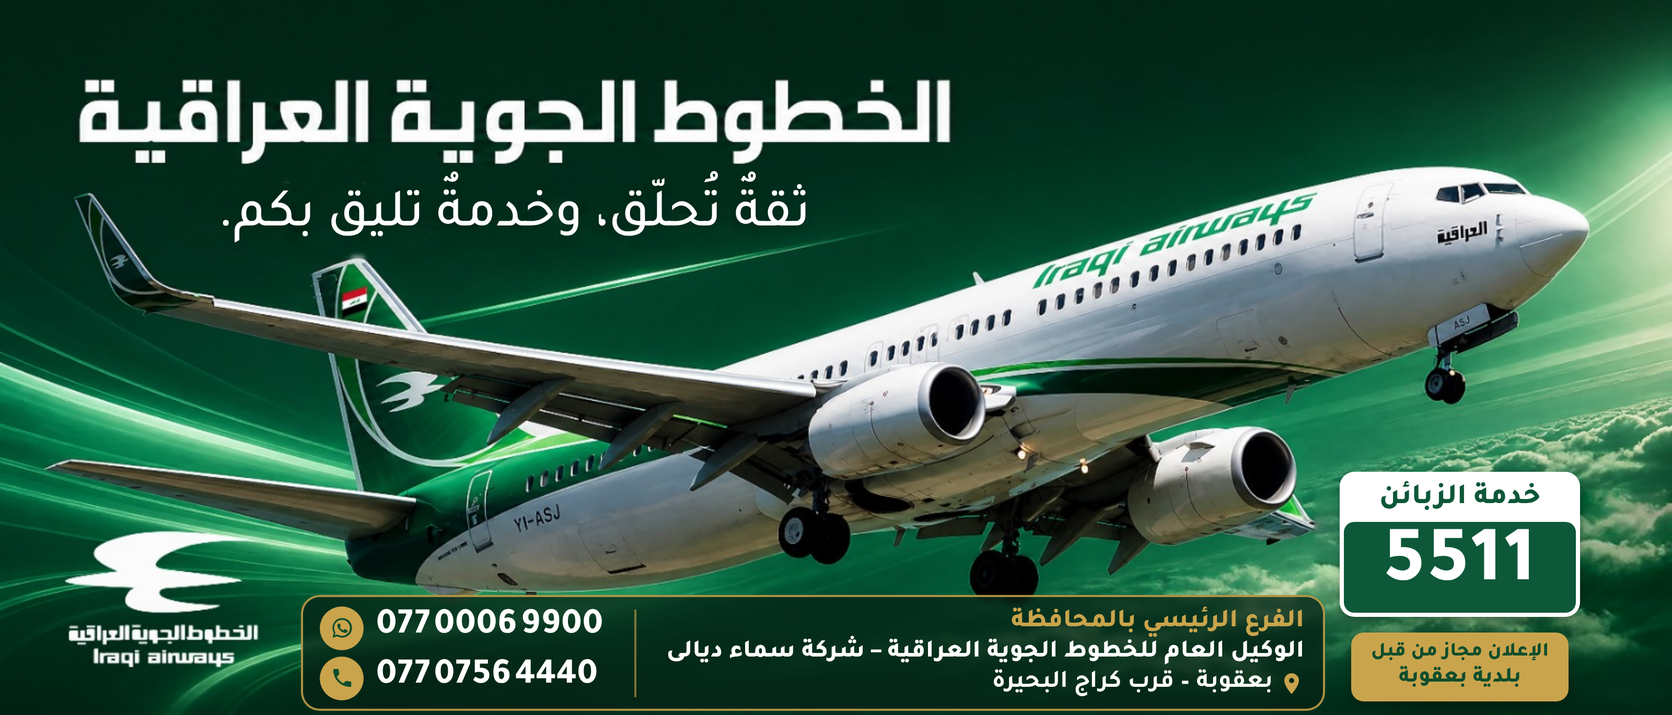
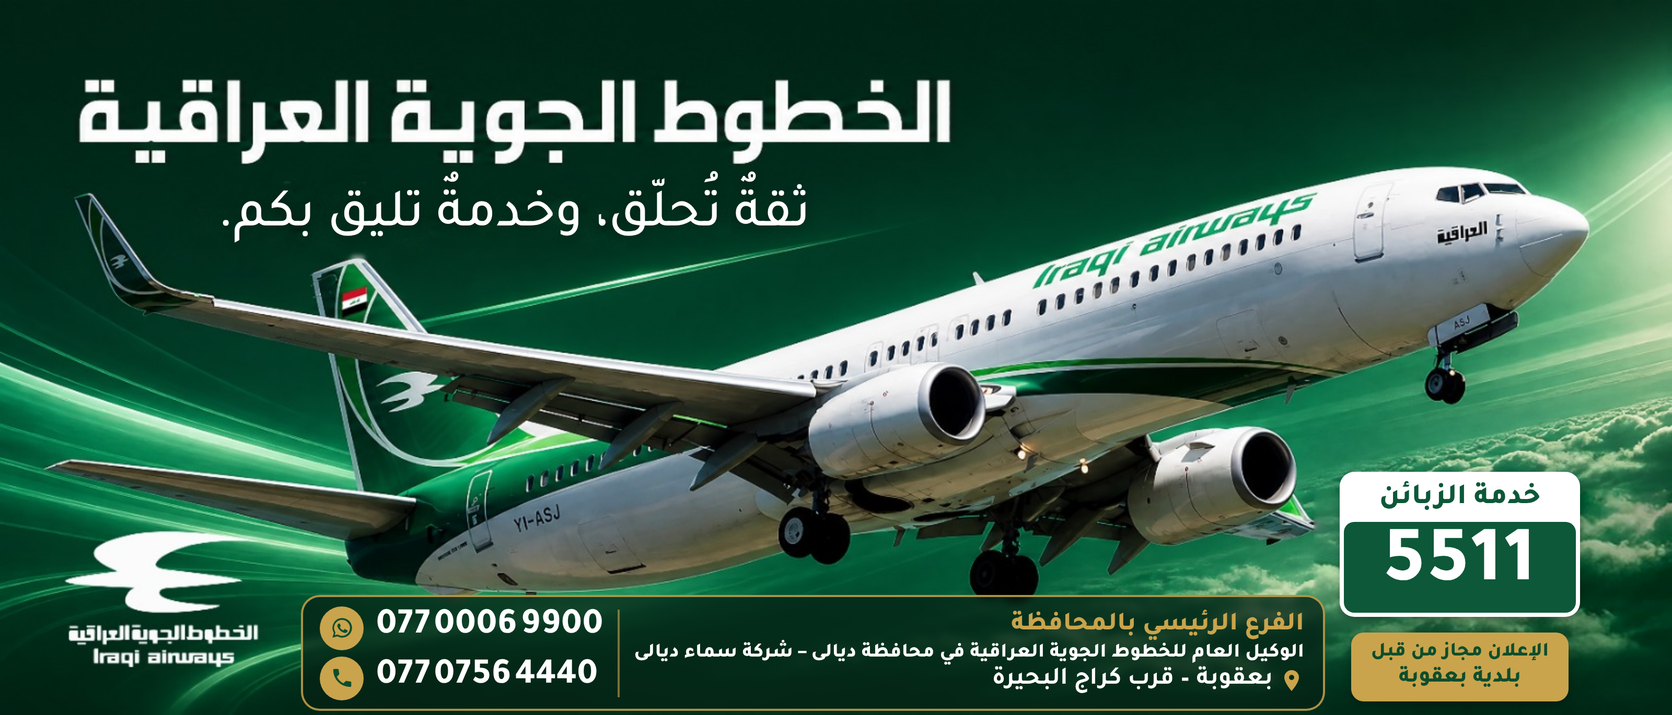
لوحة العراقية الرسمية (ثقة تحلق): سطر الوكيل في محافظة ديالى، ونسخة بالوكيل في السطر الأول
Claude-Session: https://claude.ai/code/session_01EprWPUJDuKvYHn821imCPv

Changed region(s): [[0.375, 0.8584, 0.7812, 0.981]]

diff --git a/09-التصاميم/لوحة الخطوط الجوية العراقية - تعديل الرسمية/إعلان - ثقة تحلق - الوكيل في السطر الأول.html b/09-التصاميم/لوحة الخطوط الجوية العراقية - تعديل الرسمية/إعلان - ثقة تحلق - الوكيل في السطر الأول.html
@@ -1,0 +1,60 @@
+<!doctype html><html lang="ar" dir="rtl"><head><meta charset="utf-8"><title>لوحة العراقية الرسمية - معدلة</title>
+<style>
+  @font-face{font-family:Tajawal;font-weight:700;src:url("../../07-أدوات/خطوط/tajawal-arabic-800-normal.woff2");unicode-range:U+0600-06FF,U+0750-077F,U+FB50-FDFF,U+FE70-FEFF,U+200C-200E}
+  @font-face{font-family:Tajawal;font-weight:700;src:url("../../07-أدوات/خطوط/tajawal-latin-800-normal.woff2");unicode-range:U+0000-00FF,U+2000-206F}
+  @font-face{font-family:TajawalT;font-weight:400;src:url("../../07-أدوات/خطوط/tajawal-arabic-500-normal.woff2");unicode-range:U+0600-06FF,U+0750-077F,U+FB50-FDFF,U+FE70-FEFF,U+200C-200E}
+  @font-face{font-family:TajawalT;font-weight:400;src:url("../../07-أدوات/خطوط/tajawal-latin-500-normal.woff2");unicode-range:U+0000-00FF,U+2000-206F}
+  @font-face{font-family:TajawalT;font-weight:500;src:url("../../07-أدوات/خطوط/tajawal-arabic-500-normal.woff2");unicode-range:U+0600-06FF,U+0750-077F,U+FB50-FDFF,U+FE70-FEFF,U+200C-200E}
+  @font-face{font-family:TajawalT;font-weight:500;src:url("../../07-أدوات/خطوط/tajawal-latin-500-normal.woff2");unicode-range:U+0000-00FF,U+2000-206F}
+  @font-face{font-family:TajawalT;font-weight:600;src:url("../../07-أدوات/خطوط/tajawal-arabic-700-normal.woff2");unicode-range:U+0600-06FF,U+0750-077F,U+FB50-FDFF,U+FE70-FEFF,U+200C-200E}
+  @font-face{font-family:TajawalT;font-weight:600;src:url("../../07-أدوات/خطوط/tajawal-latin-700-normal.woff2");unicode-range:U+0000-00FF,U+2000-206F}
+  @font-face{font-family:TajawalT;font-weight:700;src:url("../../07-أدوات/خطوط/tajawal-arabic-800-normal.woff2");unicode-range:U+0600-06FF,U+0750-077F,U+FB50-FDFF,U+FE70-FEFF,U+200C-200E}
+  @font-face{font-family:TajawalT;font-weight:700;src:url("../../07-أدوات/خطوط/tajawal-latin-800-normal.woff2");unicode-range:U+0000-00FF,U+2000-206F}
+/* The airline's official billboard kept as it is; only an address + numbers panel added in the free strip
+   between the Iraqi Airways logo and the 5511 badge, under the landing gear (asked by Ihsan). */
+*{margin:0;padding:0;box-sizing:border-box}
+html,body{width:1600px;height:685px;overflow:hidden}
+.ad{position:relative;width:1600px;height:685px;background:url("أساس - ثقة تحلق.png") 0 0/1600px 685px no-repeat}
+.pn{position:absolute;left:288px;width:980px;top:570px;height:111px;border-radius:18px;background:rgba(6,34,20,.74);
+    border:2px solid rgba(201,164,76,.85);display:flex;align-items:center;justify-content:space-between;padding:0 18px 0 16px;direction:rtl;color:#fff;
+    backdrop-filter:blur(4px)}
+.addr{display:flex;align-items:center;gap:12px}
+.addr svg{width:40px;height:40px;flex:none}
+.addr .l{width:max-content;white-space:nowrap;font-family:TajawalT;font-weight:700;line-height:1.2}
+.addr .l1{font-size:25px;color:#C9A44C}
+.addr .l2{font-size:24px}
+.addr .l3{font-size:24px;font-weight:600;display:flex;align-items:center;gap:6px}
+.addr .l3 svg.pin{width:24px;height:24px;flex:none}
+.vs{width:2px;height:84px;margin:0 8px;background:rgba(201,164,76,.6)}
+.nums{display:flex;flex-direction:column;gap:6px}
+.n{display:flex;align-items:center;gap:12px;direction:ltr;font-family:TajawalT;font-weight:700;font-size:35px;line-height:1.05;letter-spacing:.5px;word-spacing:-6px;white-space:nowrap}
+.n .ic{width:42px;height:42px;border-radius:50%;background:#C9A44C;display:flex;align-items:center;justify-content:center;flex:none}
+.n .ic svg{width:23px;height:23px}
+.cs{position:absolute;left:1282px;top:452px;width:230px;height:139px;background:#fff;border-radius:14px;padding:4px;display:flex;flex-direction:column;box-shadow:0 3px 8px rgba(0,0,0,.28)}
+.cs .k{height:44px;display:flex;align-items:center;justify-content:center;font-family:TajawalT;font-weight:700;font-size:28px;color:#0d5839}
+.cs .v{flex:1;background:#0d5839;border-radius:10px;display:flex;align-items:center;justify-content:center;font-family:Tajawal;font-weight:700;font-size:76px;line-height:1;color:#fff;letter-spacing:1px}
+.tg{position:absolute;left:92px;width:800px;top:178px;text-align:center;font-family:TajawalT;font-weight:500;font-size:52px;line-height:1.2;color:#fff;text-shadow:0 2px 10px rgba(0,0,0,.25)}
+.lic{position:absolute;left:1293px;top:606px;width:208px;height:66px;background:#C9A44C;border-radius:12px;display:flex;flex-direction:column;align-items:center;justify-content:center;
+     font-family:TajawalT;font-weight:700;color:#0E4D2C;line-height:1.18;text-align:center;box-shadow:0 3px 8px rgba(0,0,0,.28)}
+.lic .l1{font-size:19px}.lic .l2{font-size:21px;white-space:nowrap}
+</style></head><body><div class="ad">
+<div class="cs"><div class="k">خدمة الزبائن</div><div class="v">5511</div></div>
+<div class="lic"><div class="l1">الإعلان مجاز من قبل</div><div class="l2">بلدية بعقوبة</div></div>
+<div class="tg">ثقةٌ تُحلّق، وخدمةٌ تليق بكم.</div>
+<div class="pn">
+  <div class="addr">
+    <div><div class="l l1">الوكيل العام للخطوط الجوية العراقية في محافظة ديالى</div><div class="l l2">شركة سماء ديالى</div><div class="l l3"><svg class="pin" viewBox="0 0 24 24" fill="#C9A44C"><path d="M12 2a7 7 0 0 0-7 7c0 5.2 7 13 7 13s7-7.8 7-13a7 7 0 0 0-7-7zm0 9.5A2.5 2.5 0 1 1 12 6.5a2.5 2.5 0 0 1 0 5z"/></svg><span>بعقوبة – قرب كراج البحيرة</span></div></div></div>
+  <div class="vs"></div>
+  <div class="nums">
+    <div class="n"><span class="ic"><svg viewBox="0 0 32 32" fill="#0E4D2C"><path d="M16 3a13 13 0 0 0-11.2 19.6L3 29l6.6-1.7A13 13 0 1 0 16 3zm0 23.6c-2 0-4-.5-5.7-1.6l-.4-.2-3.9 1 1-3.8-.3-.4A10.6 10.6 0 1 1 16 26.6zm5.8-7.9c-.3-.2-1.9-.9-2.2-1-.3-.1-.5-.2-.7.2l-1 1.2c-.2.2-.4.2-.7.1a8.7 8.7 0 0 1-4.3-3.8c-.3-.6.3-.5 1-1.7.1-.2 0-.4 0-.6l-1-2.4c-.3-.6-.5-.5-.7-.5h-.6c-.2 0-.6.1-.9.4-.3.3-1.2 1.1-1.2 2.8s1.2 3.2 1.4 3.5c.2.2 2.4 3.6 5.8 5 2.1.9 3 1 4 .8.7-.1 1.9-.8 2.2-1.6.3-.8.3-1.4.2-1.6-.1-.1-.3-.2-.6-.3z"/></svg></span>077 0006 9900</div>
+    <div class="n"><span class="ic"><svg viewBox="0 0 24 24" fill="#0E4D2C"><path d="M6.6 10.8a15.1 15.1 0 0 0 6.6 6.6l2.2-2.2a1 1 0 0 1 1-.25 11.4 11.4 0 0 0 3.6.57 1 1 0 0 1 1 1V20a1 1 0 0 1-1 1A17 17 0 0 1 3 4a1 1 0 0 1 1-1h3.5a1 1 0 0 1 1 1c0 1.25.2 2.45.57 3.57a1 1 0 0 1-.25 1z"/></svg></span>077 0756 4440</div>
+  </div>
+</div>
+</div>
+<script>document.fonts.ready.then(()=>{
+  // shrink any address line that would push the panel past its width (keeps one line each)
+  const pn=document.querySelector('.pn'),nums=document.querySelector('.nums'),vs=document.querySelector('.vs');
+  const max=pn.clientWidth-36-nums.getBoundingClientRect().width-vs.getBoundingClientRect().width-16-6;
+  document.querySelectorAll('.addr .l').forEach(l=>{let f=parseFloat(getComputedStyle(l).fontSize);
+    while(l.scrollWidth>max&&f>14){f-=0.25;l.style.fontSize=f+'px';} l.dataset.fs=f;});
+  document.body.dataset.ready='1'})</script></body></html>

diff --git a/09-التصاميم/لوحة الخطوط الجوية العراقية - تعديل الرسمية/إعلان - ثقة تحلق.html b/09-التصاميم/لوحة الخطوط الجوية العراقية - تعديل الرسمية/إعلان - ثقة تحلق.html
@@ -20,7 +20,7 @@ html,body{width:1600px;height:685px;overflow:hidden}
     backdrop-filter:blur(4px)}
 .addr{display:flex;align-items:center;gap:12px}
 .addr svg{width:40px;height:40px;flex:none}
-.addr .l{white-space:nowrap;font-family:TajawalT;font-weight:700;line-height:1.2}
+.addr .l{width:max-content;white-space:nowrap;font-family:TajawalT;font-weight:700;line-height:1.2}
 .addr .l1{font-size:25px;color:#C9A44C}
 .addr .l2{font-size:24px}
 .addr .l3{font-size:24px;font-weight:600;display:flex;align-items:center;gap:6px}
@@ -43,7 +43,7 @@ html,body{width:1600px;height:685px;overflow:hidden}
 <div class="tg">ثقةٌ تُحلّق، وخدمةٌ تليق بكم.</div>
 <div class="pn">
   <div class="addr">
-    <div><div class="l l1">الفرع الرئيسي بالمحافظة</div><div class="l l2">الوكيل العام للخطوط الجوية العراقية – شركة سماء ديالى</div><div class="l l3"><svg class="pin" viewBox="0 0 24 24" fill="#C9A44C"><path d="M12 2a7 7 0 0 0-7 7c0 5.2 7 13 7 13s7-7.8 7-13a7 7 0 0 0-7-7zm0 9.5A2.5 2.5 0 1 1 12 6.5a2.5 2.5 0 0 1 0 5z"/></svg><span>بعقوبة – قرب كراج البحيرة</span></div></div></div>
+    <div><div class="l l1">الفرع الرئيسي بالمحافظة</div><div class="l l2">الوكيل العام للخطوط الجوية العراقية في محافظة ديالى – شركة سماء ديالى</div><div class="l l3"><svg class="pin" viewBox="0 0 24 24" fill="#C9A44C"><path d="M12 2a7 7 0 0 0-7 7c0 5.2 7 13 7 13s7-7.8 7-13a7 7 0 0 0-7-7zm0 9.5A2.5 2.5 0 1 1 12 6.5a2.5 2.5 0 0 1 0 5z"/></svg><span>بعقوبة – قرب كراج البحيرة</span></div></div></div>
   <div class="vs"></div>
   <div class="nums">
     <div class="n"><span class="ic"><svg viewBox="0 0 32 32" fill="#0E4D2C"><path d="M16 3a13 13 0 0 0-11.2 19.6L3 29l6.6-1.7A13 13 0 1 0 16 3zm0 23.6c-2 0-4-.5-5.7-1.6l-.4-.2-3.9 1 1-3.8-.3-.4A10.6 10.6 0 1 1 16 26.6zm5.8-7.9c-.3-.2-1.9-.9-2.2-1-.3-.1-.5-.2-.7.2l-1 1.2c-.2.2-.4.2-.7.1a8.7 8.7 0 0 1-4.3-3.8c-.3-.6.3-.5 1-1.7.1-.2 0-.4 0-.6l-1-2.4c-.3-.6-.5-.5-.7-.5h-.6c-.2 0-.6.1-.9.4-.3.3-1.2 1.1-1.2 2.8s1.2 3.2 1.4 3.5c.2.2 2.4 3.6 5.8 5 2.1.9 3 1 4 .8.7-.1 1.9-.8 2.2-1.6.3-.8.3-1.4.2-1.6-.1-.1-.3-.2-.6-.3z"/></svg></span>077 0006 9900</div>
@@ -51,4 +51,10 @@ html,body{width:1600px;height:685px;overflow:hidden}
   </div>
 </div>
 </div>
-<script>document.fonts.ready.then(()=>{document.body.dataset.ready='1'})</script></body></html>
+<script>document.fonts.ready.then(()=>{
+  // shrink any address line that would push the panel past its width (keeps one line each)
+  const pn=document.querySelector('.pn'),nums=document.querySelector('.nums'),vs=document.querySelector('.vs');
+  const max=pn.clientWidth-36-nums.getBoundingClientRect().width-vs.getBoundingClientRect().width-16-6;
+  document.querySelectorAll('.addr .l').forEach(l=>{let f=parseFloat(getComputedStyle(l).fontSize);
+    while(l.scrollWidth>max&&f>14){f-=0.25;l.style.fontSize=f+'px';} l.dataset.fs=f;});
+  document.body.dataset.ready='1'})</script></body></html>

diff --git a/CLAUDE.md b/CLAUDE.md
@@ -117,7 +117,7 @@
 - نسخة الإعلان الممول من "تذكرتك تطلع بدقيقة" (25 تشرين الثاني 2026، حملة فيسبوك وإنستغرام على ديالى وبغداد، 10$ يومياً (5$ لكل مجموعة)، خطتها `05-الخطة/حملة تذكرتك تطلع بدقيقة.md`): `14-الفيديو/إعلان ممول - تذكرتك تطلع بدقيقة/build.py`، 17 ثانية، اللقطات والأصوات نفسها، والنصوص بخط تجوال. الافتتاح متحرك أيضاً (`عناصر/البداية.html`): "تذكرتك تطلع بدقيقة" من أول إطار، وتحته عند 1.2 ث "وتوصلك لمكانك" دون أن يختفي الأول، ويختفيان معاً عند القطع (3 ث). الختام 5 ثوانٍ متحرك، يُرسم إطاراً بإطار من `عناصر/الختام.html` بأداة `07-أدوات/فيديو/render_anim.js` (window.seek): الترويسة، ثم "تذكرتك من الوكيل العام للخطوط الجوية العراقية في محافظة ديالى"، ثم بعد ثانية "احجز الآن عبر الواتساب أو الاتصال" و"من أي محافظة، وتذكرتك توصلك على موبايلك"، وزر واتساب ذهبي بنبض خفيف (077 0006 9900) وتحته زر اتصال بإطار أبيض (077 0756 4440)، والعنوان صغيراً. تحته بقية لقطة القاعة مبطّأة، والموسيقى من 95.0 حتى نهاية المقطوعة. النص بين y≈332 وy≈1210 (خارج منطقة النص والزر في الريلز)، ونسخة 4:5 للفيد بقص y=230. النص المعتمد للإعلان هو الأول (`13-جاهز-للنشر/نص إعلان ممول - تذكرتك تطلع بدقيقة.txt`). نسخة تيك توك الأصلية باقية كما هي.
 
 - النسخة المعتمدة بالصوت (25 تشرين الثاني 2026، توجّه الإدارة ضد الفيديو الصامت): `14-الفيديو/إعلان ممول - تذكرتك تطلع بدقيقة/build_vo.py`، 23.6 ثانية بمقاسَي 9:16 و4:5. يبدأ بلقطة الواجهة من الخارج (`المكتب - الواجهة من الخارج والدخول.mov`، 6.6 ث)، ثم الكيبورد والطابعة والختم والغلاف والتسليم، ثم الجولة البديلة في القاعة (`... (بديلة).mov`) تستمر تحت الختام. الفويس أوفر: التسجيل الثاني الذي أرسله إحسان (`صوت/الفويس أوفر 2 - الأصل (واتساب).mp4`، والأول محفوظ)، بالتسجيل الأصلي مع إزالة ضجيج خفيفة فقط ورفع 5 dB (`صوت/الفويس أوفر 2 - الأصل مع إزالة الضجيج فقط.wav`، قرابة -20 LUFS). رفض إحسان المعالجة الثقيلة (إزالة الصدى والضغط والمعادلة، `صوت/الفويس أوفر 2 - منظف.wav` وأداة `07-أدوات/صوت/dereverb.py`) لأنها أحدثت رجّة وضعفاً في الجودة، فلا تُستخدم على التسجيلات الصوتية. الموسيقى 0.15 تحت الصوت، يبدأ من الثانية 1.05 في الملف عند 0.35 ث في الفيديو، واللقطات والترجمة مقطوعة على وقفاته (الختام من 16.85 ث، والمدة 22.3 ث)، والنص المعتمد في `13-جاهز-للنشر/نص الفويس أوفر - تذكرتك تطلع بدقيقة.txt`. في الثواني الثلاث الأولى فوق الواجهة الافتتاح المتحرك نفسه (`عناصر/البداية.html`: "تذكرتك تطلع بدقيقة" ثم تحته "وتوصلك لمكانك" عند 1.2 ث، بطلب إحسان)، وتبدأ الترجمة بعده من 3 ث. ترجمة مكتوبة متزامنة (`عناصر/ترجمة.html`) منخفضة في الإطار بطلب إحسان (حافتها السفلى عند y≈1490). أصوات المكتب منخفضة (0.32)، وموسيقى هادئة مسموعة مع الكلام بطلب إحسان: lexin_music-inspiring-cinematic-ambient من الثانية 5 (مستوى 0.24 تحت الصوت، قرابة -23 dB في فراغات الكلام)، ترتفع بعد آخر كلمة وتتلاشى في الثانية ونصف الأخيرة. الختام 6.1 ث من 17.5 ث، والرقمان فيه بأيقونة واتساب: 0774 1777 500 (بهذا التقسيم في الفيديو بطلب إحسان) و077 0756 4440. النسخة الصامتة محفوظة (`build.py` و`عناصر/الختام - النسخة الصامتة.html`).
-- لوحة الخطوط الجوية العراقية المطبوعة (26 تشرين الثاني 2026): البناء على **اللوحة الرسمية للخطوط** نفسها (الصورة النظيفة بالطائرة YI-ASJ وشعار العراقية أسفل اليسار)، لا تصميم جديد ولا لوحة غير المتخصص. `09-التصاميم/لوحة الخطوط الجوية العراقية - تعديل الرسمية/` بنسختين: `إعلان - ثقة تحلق.html` (أُزيلت "سافر بثقة … وحلّق أبعد" بـ inpaint وكُتبت "ثقةٌ تُحلّق، وخدمةٌ تليق بكم." بتجوال 500 أبيض 52px) و`إعلان - سافر بثقة.html` (الجملة الأصلية). في الاثنتين: شارة 5511 الأصلية أُزيلت ورُسمت أصغر قليلاً (262×158 مكان 290×177) حتى تتوازن مع أرقامنا، ولوح زجاجي أخضر بإطار ذهبي بين الشعار والشارة تحت العجلات (x 290–1260، y 592–678): "ديالى – بعقوبة – قرب كراج البحيرة" وتحته "الفرع الرئيسي بالمحافظة" (بطلب إحسان)، والرقمان 077 0006 9900 (واتساب، الرقم القديم لهذه اللوحة بطلب إحسان) و077 0756 4440 بخط أكبر (31px). وبعدها (بطلب إحسان) صغُرت شارة 5511 إلى 230×139 وارتفعت (top:452)، وتحتها مربع ذهبي أصغر قليلاً (208×66، top:606) بالأخضر: "الإعلان مجاز من قبل / بلدية بعقوبة". ثم رُمّمت الأساسات (بطلب إحسان): مكان الشارة القديمة كان تمويهاً ظاهراً حول المربعين، فمُلئ حتى حافة الصورة اليمنى بقطعة غيوم حقيقية من الصورة نفسها (تحت المحرك) مدموجة بحلّ بواسون خاص (`07-أدوات/لوحة العراقية - ترميم الغيوم/غيوم مكان الشارة.py`؛ أداة seamlessClone في OpenCV تُحدث وهجاً عند حافة الصورة فلا تُستخدم هنا)، وأُعيد الخط الضوئي الأبيض تحت "ثقة تحلق" من الصورة الأصلية بعد أن قطعه إزالة الجملة القديمة، وأُزيل الظل الضبابي حول المربعين (ظل خفيف 3px فقط). ثم كُبّر الشريط السفلي وخطه (بطلب إحسان: x 288–1268، y 570–681): ثلاثة أسطر يميناً: "الفرع الرئيسي بالمحافظة" بالذهبي (25px)، ثم "الوكيل العام للخطوط الجوية العراقية – شركة سماء ديالى" (24px)، ثم أيقونة موقع مصغّرة بجانب "بعقوبة – قرب كراج البحيرة" (24px، بلا "ديالى" بطلب إحسان)، والرقمان فوق بعض يساراً (35px). الأساسات المنظفة `أساس - *.png`، والتصدير ×2. الجاهزة: `13-جاهز-للنشر/لوحة الخطوط الجوية العراقية 1 - ثقة تحلق.png` و`... 2 - سافر بثقة.png`. محاولتان خاطئتان محفوظتان ولا تُستخدمان: تصميم جديد في `09-التصاميم/لوحة الخطوط الجوية العراقية/`، وتعديل لوحة غير المتخصص.
+- لوحة الخطوط الجوية العراقية المطبوعة (26 تشرين الثاني 2026): البناء على **اللوحة الرسمية للخطوط** نفسها (الصورة النظيفة بالطائرة YI-ASJ وشعار العراقية أسفل اليسار)، لا تصميم جديد ولا لوحة غير المتخصص. `09-التصاميم/لوحة الخطوط الجوية العراقية - تعديل الرسمية/` بنسختين: `إعلان - ثقة تحلق.html` (أُزيلت "سافر بثقة … وحلّق أبعد" بـ inpaint وكُتبت "ثقةٌ تُحلّق، وخدمةٌ تليق بكم." بتجوال 500 أبيض 52px) و`إعلان - سافر بثقة.html` (الجملة الأصلية). في الاثنتين: شارة 5511 الأصلية أُزيلت ورُسمت أصغر قليلاً (262×158 مكان 290×177) حتى تتوازن مع أرقامنا، ولوح زجاجي أخضر بإطار ذهبي بين الشعار والشارة تحت العجلات (x 290–1260، y 592–678): "ديالى – بعقوبة – قرب كراج البحيرة" وتحته "الفرع الرئيسي بالمحافظة" (بطلب إحسان)، والرقمان 077 0006 9900 (واتساب، الرقم القديم لهذه اللوحة بطلب إحسان) و077 0756 4440 بخط أكبر (31px). وبعدها (بطلب إحسان) صغُرت شارة 5511 إلى 230×139 وارتفعت (top:452)، وتحتها مربع ذهبي أصغر قليلاً (208×66، top:606) بالأخضر: "الإعلان مجاز من قبل / بلدية بعقوبة". ثم رُمّمت الأساسات (بطلب إحسان): مكان الشارة القديمة كان تمويهاً ظاهراً حول المربعين، فمُلئ حتى حافة الصورة اليمنى بقطعة غيوم حقيقية من الصورة نفسها (تحت المحرك) مدموجة بحلّ بواسون خاص (`07-أدوات/لوحة العراقية - ترميم الغيوم/غيوم مكان الشارة.py`؛ أداة seamlessClone في OpenCV تُحدث وهجاً عند حافة الصورة فلا تُستخدم هنا)، وأُعيد الخط الضوئي الأبيض تحت "ثقة تحلق" من الصورة الأصلية بعد أن قطعه إزالة الجملة القديمة، وأُزيل الظل الضبابي حول المربعين (ظل خفيف 3px فقط). ثم كُبّر الشريط السفلي وخطه (بطلب إحسان: x 288–1268، y 570–681): ثلاثة أسطر يميناً: "الفرع الرئيسي بالمحافظة" بالذهبي (25px)، ثم "الوكيل العام للخطوط الجوية العراقية – شركة سماء ديالى" (24px)، ثم أيقونة موقع مصغّرة بجانب "بعقوبة – قرب كراج البحيرة" (24px، بلا "ديالى" بطلب إحسان). وفي نسخة "ثقة تحلق" وحدها صار السطر الثاني "الوكيل العام للخطوط الجوية العراقية في محافظة ديالى – شركة سماء ديالى" (يصغر تلقائياً ليبقى سطراً واحداً، قرابة 19px)، ونسخة أخرى منها `إعلان - ثقة تحلق - الوكيل في السطر الأول.html` (جاهزة باسم "لوحة الخطوط الجوية العراقية 1ب - ثقة تحلق (الوكيل في السطر الأول).png"): بلا "الفرع الرئيسي"، والأسطر: الوكيل العام للخطوط الجوية العراقية في محافظة ديالى (بالذهبي)، ثم شركة سماء ديالى، ثم العنوان، والرقمان فوق بعض يساراً (35px). الأساسات المنظفة `أساس - *.png`، والتصدير ×2. الجاهزة: `13-جاهز-للنشر/لوحة الخطوط الجوية العراقية 1 - ثقة تحلق.png` و`... 2 - سافر بثقة.png`. محاولتان خاطئتان محفوظتان ولا تُستخدمان: تصميم جديد في `09-التصاميم/لوحة الخطوط الجوية العراقية/`، وتعديل لوحة غير المتخصص.
 - لوحة العراقية "من الصفر بهويتنا" (26 تشرين الثاني 2026، بطلب إحسان، بالمقاس نفسه 1600×685 وتصدير ×2): `09-التصاميم/لوحة الخطوط الجوية العراقية - تصميم جديد بهويتنا/` بنسختين (`إعلان - سافر بثقة.html` و`إعلان - ثقة تحلق.html`). خلفية خضراء بتوهج خلف الطائرة، وطائرة YI-ASU كاملة مقصوصة بحواف منظفة (`طائرة YI-ASU (مفرغة مرتبة).png`). رفض إحسان القص القديم (بقايا سماء زرقاء وأخطاء)، فأُعيد القص من الصورة الأصلية بسمائها الزرقاء: نموذج للسماء ثم ماتنغ حقيقي (pymatting) وإزالة الأزرق من الحواف، الأدوات في `07-أدوات/قص طائرة YI-ASU/` (key.py ثم mat.py ثم fin.py)، والناتج `08-الصور/طائرة العراقية YI-ASU (مفرغة بدقة، ماتنغ).png` (1778×572)، وهو المعتمد لأي تصميم بطائرة YI-ASU مقصوصة يميناً، وشريطان أخضر وذهبي تحتها، وطائر العراقية مع Iraqi Airways و"الخطوط الجوية العراقية" والجملة بالذهبي يساراً، بلا شعار شركتنا (حذفه إحسان)، وشريط سفلي: خدمة الزبائن 5511، والعنوان مع "الفرع الرئيسي بالمحافظة"، والرقمان 077 0006 9900 (واتساب) و077 0756 4440. الجاهزة: `13-جاهز-للنشر/لوحة العراقية بهويتنا - سافر بثقة.png` و`... - ثقة تحلق.png`. وتصميم ثانٍ بالطريقة نفسها (بطلب إحسان، والخط أكبر في الشريط السفلي: الأرقام 48px، والعنوان 40px والفرع 33px، و5511 بحجم 82px، والشريط 172px): `09-التصاميم/لوحة الخطوط الجوية العراقية - تصميم جديد بهويتنا 2/`، الطائرة يساراً أمام دائرة فاتحة بحلقة ذهبية ومسار منقّط خلفها، والنص يميناً، والشريطان المائلان في الزاوية العليا اليمنى. الجاهزة: `13-جاهز-للنشر/لوحة العراقية بهويتنا 2 - سافر بثقة.png` و`... - ثقة تحلق.png`. وتصميم ثالث بطائرة جديدة (بطلب إحسان): `09-التصاميم/لوحة الخطوط الجوية العراقية - تصميم جديد بهويتنا 3/`، بوينغ 777 YI-AQZ كاملة تتجه نحو النص على لوح أخضر مائل يميناً بحلقات ذهبية، والشريطان الأخضر والذهبي حدّ اللوح، والنص يساراً على أخضر أغمق (بطلب إحسان: تصميم أخضر؛ طائر العراقية الأبيض، و"الخطوط الجوية / العراقية" بالأبيض بسطرين 68px، والجملة بالذهبي). النسخة الفاتحة الأولى محفوظة (`إعلان - النسخة الفاتحة - *.html`). مقدمة الطائرة كانت مبكسلة، فنُعّمت حافتها (تكبير وتمويه ثم قطع) وصارت حافة البدن الأمامية خطاً مقاساً، والشريط السفلي نفسه بالخط الكبير. القص `08-الصور/طائرة العراقية 777 YI-AQZ (مفرغة كاملة).png` (1818×500): نموذج ISNet من rembg ثم ماتنغ، وحافة البدن العليا وحافة الجناح الأمامية والذيل أُعيد رسمها بخطوط مقاسة لأن لونها يطابق السماء الرمادية، والأدوات في `07-أدوات/قص طائرة 777 YI-AQZ/` (seg.py ثم mat2.py ثم fix.py). الجاهزة: `13-جاهز-للنشر/لوحة العراقية بهويتنا 3 - سافر بثقة.png` و`... - ثقة تحلق.png`.
 ## منشورات المكاتب (B2B)
 - الشركة تبيع التذاكر لمكاتب السفر الأخرى، والموظفون يرسلون لها منشورات "يمكنكم الإصدار الآن". النموذج المعتمد بهويتنا: `09-التصاميم/عمولة الإصدار للمكاتب/` (من قالب الثقة): "صباح الخير" بالذهبي، "يمكنكم الإصدار الآن"، "تذاكر الخطوط الجوية العراقية"، "بعمولة 6.5%"، وصورة طائرة العراقية، وبطاقة فيها رقما الإصدار (077 0006 9900 وتحته 077 0756 4440) والبريد. لا تُكتب "إلى مكاتب السفر والسياحة" في النسختين. تتغير نسبة العمولة من القالب مباشرة. ونسخة ثانية بأسلوب "النافذة" (طائرة العراقية YI-ASU تخرج من نافذة طائرة فيها سماء بغيوم، ثم "صباح الخير" بالذهبي، والنص في صناديق، بلا "إلى مكاتب السفر والسياحة"، ومسافة واضحة بين سطر الوكيل والنافذة): `09-التصاميم/عمولة الإصدار - النافذة/`. صورة الطائرة المفرغة `08-الصور/طائرة العراقية YI-ASU (مفرغة).png` (من صورة بسماء زرقاء أرسلها إحسان) تصلح لتصاميم أخرى، وصورة الغيوم `08-الصور/سماء بغيوم (عمودية).jpg`. الغيوم خارج النافذة رسوم ضبابية بيضاء لا صور مقصوصة. ونسخة ثالثة "فاتح" بأخضر أقل: `09-التصاميم/عمولة الإصدار - فاتح/`، خلفية بيضاء، والترويسة والعناوين بالأخضر، والطائرة المفرغة كبيرة أمام دائرة فاتحة بخط ذهبي ومسار منقّط، والعمولة في بطاقة صعود ذهبية كعبها أخضر فيه الرمز الأبيض. ونسخة رابعة "الحركة": `09-التصاميم/عمولة الإصدار - الحركة/`، مقدمة طائرة YI-ASU فقط تدخل من اليسار والباقي خارج التصميم، بضبابية حركة تزداد نحو الذيل وخطوط سرعة ذهبية وخضراء بزاوية الطائرة (13.4°)، والنص والبطاقة تحتها كما في النسخة الفاتحة. ونسخة خامسة "المقدمة": `09-التصاميم/عمولة الإصدار - المقدمة/`، مقدمة طائرة 777 (من `08-الصور/طائرة العراقية (الأصل).jpg`) تدخل من اليمين بلا تأثير حركة، مقصوصة بحواف مرسومة بدقة (`08-الصور/طائرة العراقية 777 - المقدمة (مفرغة، مكبّرة 3x).png`، والأداة `07-أدوات/قص مقدمة الطائرة 777.py`). رفض إحسان YI-ASJ لضعف جودتها، وقصّ YI-ASU لأن حوافه فيها هالة زرقاء وأثر تحديد، فلا يُستخدم قصّ YI-ASU المكبّر في المقدمات القريبة. وأربعة نماذج أخرى يولّدها `09-التصاميم/عمولة الإصدار - خمسة نماذج/build.py` (نسبة العمولة في متغير COMMISSION أعلاه): المكتب (صورة المكتب الحقيقية بجدار العراقية)، والرقم الكبير، ولوحة المغادرة (أرقام قلّابة)، والشروق (شمس ذهبية خلف الطائرة). نموذج "بطاقة الصعود من SD إلى مكتبكم" حذفه إحسان، فلا يُعاد. **ملاحظة الإدارة (25 تشرين الثاني 2026): لا طائرات مقصوصة ولا جزء من طائرة ولا تأثير حركة في هذه المنشورات.** فاستُبدلت النافذة وفاتح والحركة والمقدمة والشروق، وأُزيلت الطائرة المقصوصة من الرقم الكبير. البدائل تولّدها `09-التصاميم/عمولة الإصدار - صور كاملة/build.py` (من قالب فاتح) بطائرات كاملة في صورها الحقيقية: 2 - برج المراقبة (777 قرب برج مطار بغداد، لقطة من مقطع العراقية)، 3 - فاتح (صورة YI-ASU كاملة في سمائها داخل إطار)، 4 - الإقلاع (777 تقلع كاملة في سماء تملأ المنشور)، 5 - في السماء (777 صغيرة كاملة بعد الإقلاع، بتظليل أخضر)، 9 - القوس (صورة 777 عالية الدقة داخل قوس على خلفية كريمية). اللقطات في `08-الصور/لقطات طائرات العراقية (من المقاطع)/`. لقطات 787 على المدرج لا تصلح لأن أطراف الأجنحة تخرج من حافة الإطار. النسخ القديمة (النافذة، الحركة، المقدمة، الشروق) باقية في مجلداتها في 09 ولا تُستخدم. النسخ الجاهزة التسع في مجلد `13-جاهز-للنشر/صباح الخير - تصاميم المكاتب/` مرقّمة (1 - الأخضر، 2 - برج المراقبة، 3 - فاتح، 4 - الإقلاع، 5 - في السماء، 6 - المكتب، 7 - الرقم الكبير، 8 - لوحة المغادرة، 9 - القوس)، ومعه `sabah-alkhair-offices.zip` بأسماء إنجليزية (ملف zip بأسماء عربية لم يُفتح على ويندوز عند إحسان). عند التصدير بحلقة bash يُحذف الشرطة المائلة الأخيرة من المسار، لأن "//" تكسر المسارات النسبية في Chromium.
